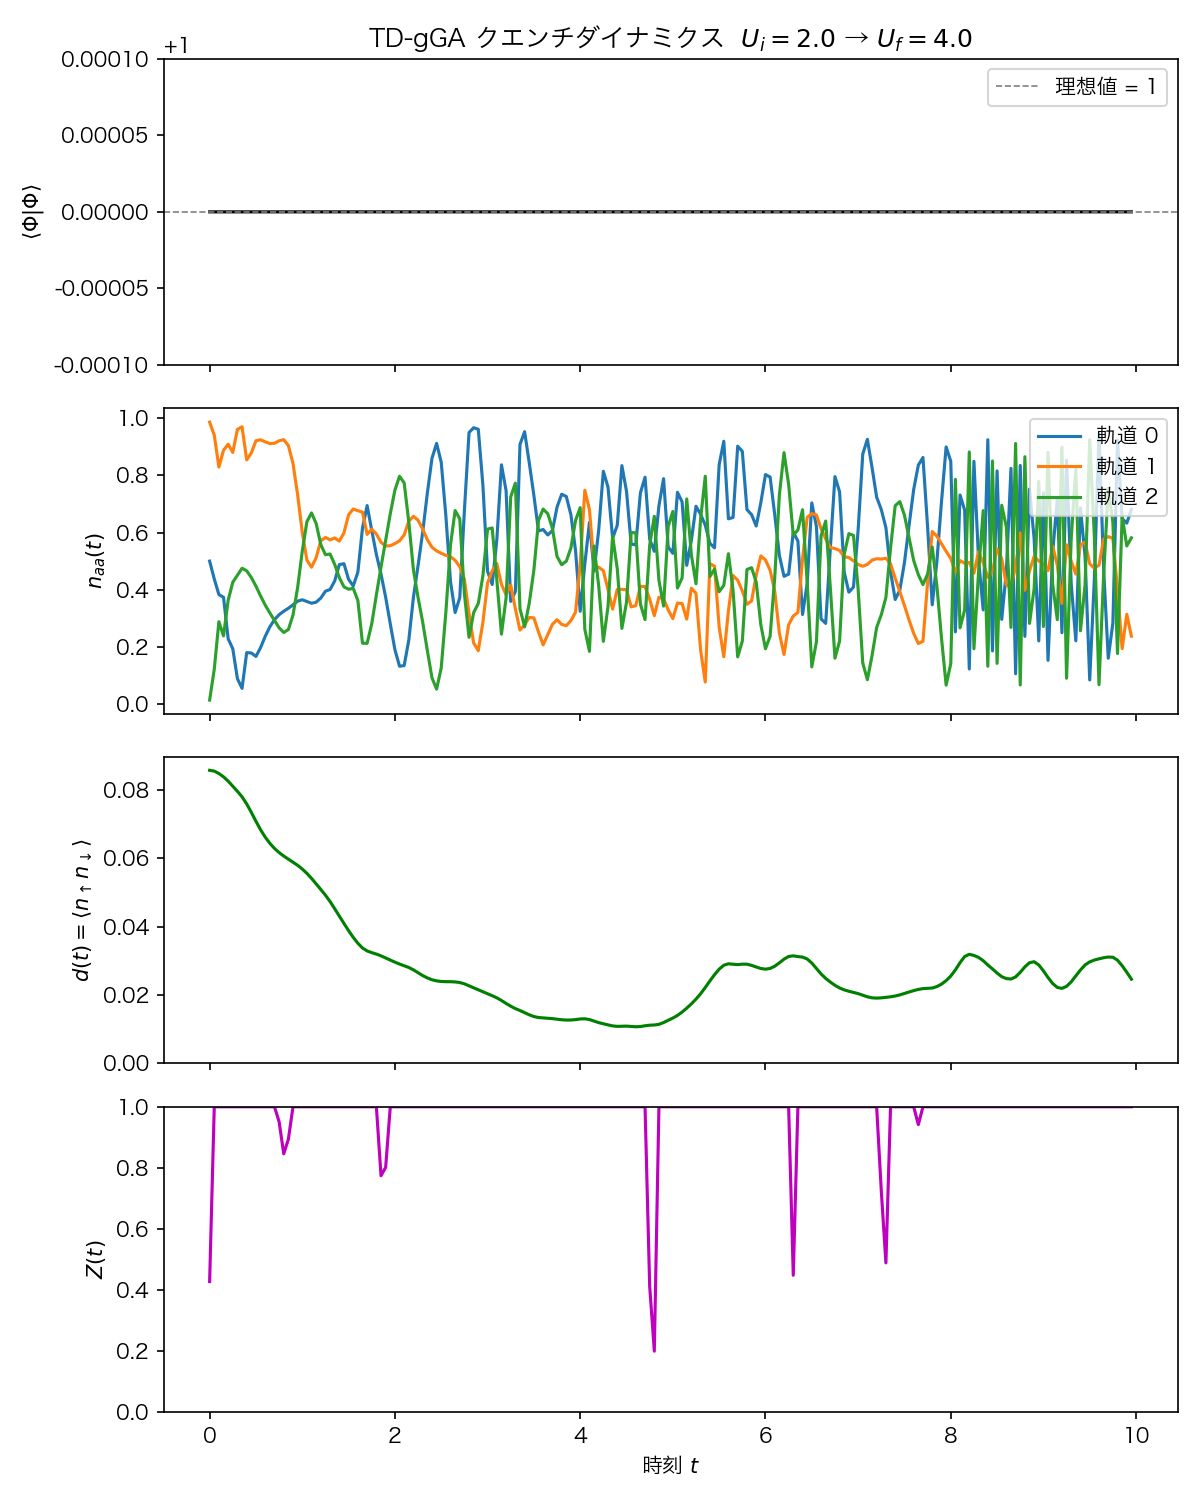
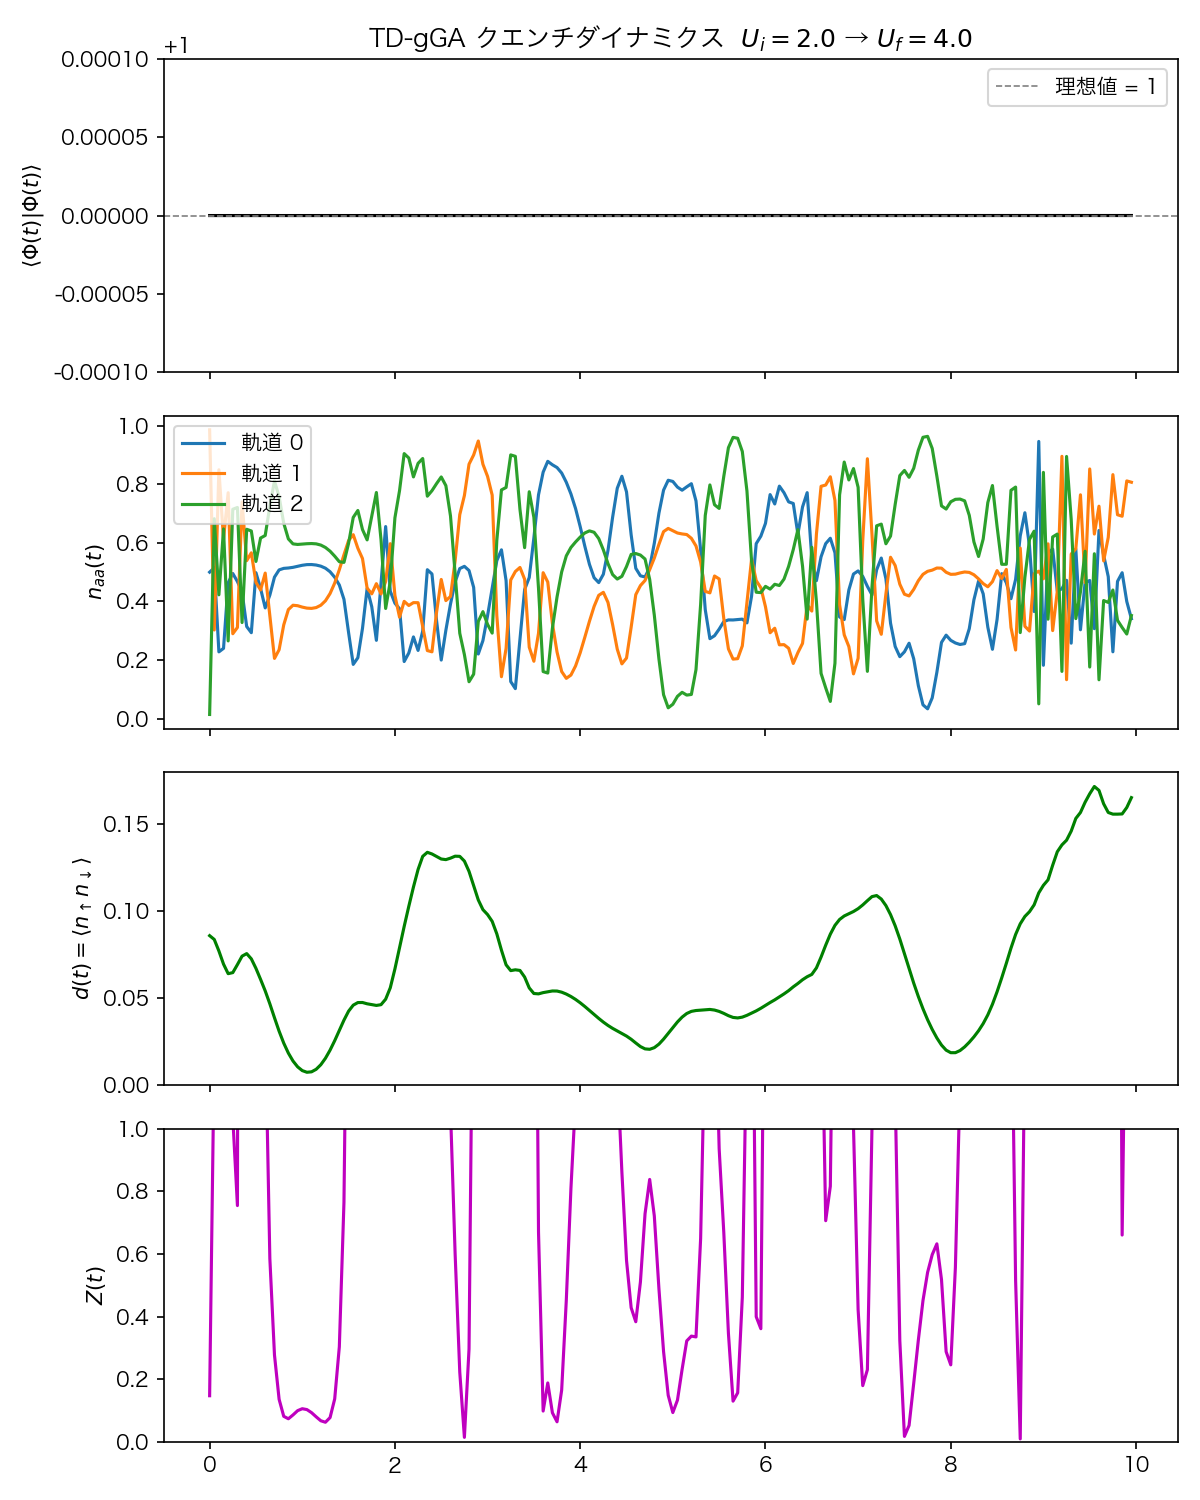
修正

diff --git a/run_simulation.py b/run_simulation.py
@@ -56,33 +56,26 @@ print(f"  ||Phi_0|| = {np.linalg.norm(Phi_0):.6f}  (≈ 1 が正常)")
 # ============================================================
 print("[3] フォック空間演算子を構築中...")
 
-FH_list = ed.build_creation_ops()  # 全軌道の生成演算子リスト (全Fock空間)
-
-# 半充填セクターのオフセット計算 (ed_solver の build_op_prods と同様)
+FH_list = ed.build_creation_ops()
 ioff = sum(int(comb(ed.n_tot_orb, i, exact=True)) for i in range(ed.n_half))
 iend = ioff + ed.hsize_half
 
-# 軌道インデックスの規約:
-#   物理軌道 alpha = 0 .. B-1  → FH_list[alpha]
-#   浴/ゴースト軌道 a = B .. 2B-1 → FH_list[B + a_loop]
-# （FH_list の先頭 B 個が物理、次の B 個が浴）
+op_cb = np.zeros((B, 1, dim_Phi, dim_Phi), dtype=complex)
+op_bb = np.zeros((B, B, dim_Phi, dim_Phi), dtype=complex)
+nphys = ed.n_phys_orb  # = 2 (spin-up=0, spin-dn=1)
+c_up_dag = FH_list[0]
 
-op_cb = np.zeros((B, B, dim_Phi, dim_Phi), dtype=complex)  # c†_al b_a
-op_bb = np.zeros((B, B, dim_Phi, dim_Phi), dtype=complex)  # b†_b  b_a
-
-for a_loop in range(B):      # 浴軌道ループインデックス (0 .. B-1)
-    # 浴軌道の消滅演算子: b_a = (b†_a)† = FH_list[B + a_loop].conj().T
-    b_ann_a = FH_list[B + a_loop].getH()   # 全Fock空間での消滅演算子 (sparse)
-
-    for al in range(B):      # 物理軌道インデックス alpha (0 .. B-1)
-        # op_cb[a_loop, al] = c†_al b_a
-        op_full = FH_list[al].dot(b_ann_a)
-        op_cb[a_loop, al] = op_full[ioff:iend, ioff:iend].toarray()
-
-    for b_loop in range(B):  # 浴軌道インデックス b (0 .. B-1)
-        # op_bb[a_loop, b_loop] = b†_b b_a
-        op_full = FH_list[B + b_loop].dot(b_ann_a)
-        op_bb[a_loop, b_loop] = op_full[ioff:iend, ioff:iend].toarray()
+# fix_gauge により bath 軌道は逆順に並んでいる:
+# Delta の a 番軌道 ↔ FH_list[nphys + 2*(B-1-a)]  (spin-up bath)
+#                    ↔ FH_list[nphys + 2*(B-1-a)+1] (spin-dn bath)
+for a in range(B):
+    bath_up_idx = nphys + 2 * (B - 1 - a)
+    b_ann_a = FH_list[bath_up_idx].getH()
+    op_cb[a, 0] = c_up_dag.dot(b_ann_a)[ioff:iend, ioff:iend].toarray()
+    for b in range(B):
+        bath_up_b = nphys + 2 * (B - 1 - b)
+        b_dag_b = FH_list[bath_up_b]
+        op_bb[a, b] = b_dag_b.dot(b_ann_a)[ioff:iend, ioff:iend].toarray()
 
 print("  op_cb, op_bb の構築完了。")
 
@@ -92,45 +85,30 @@ print("  op_cb, op_bb の構築完了。")
 U_final = 4.0
 print(f"[4] クエンチ後ハミルトニアン (U_f = {U_final}) の固定部分を構築中...")
 
-# 1体行列 h_1body (2B × 2B) を構築
-h_1body = np.zeros((2 * B, 2 * B), dtype=complex)
-
-# (1) 物理ブロック (0:B, 0:B): on-site エネルギー -U_final/2
-np.fill_diagonal(h_1body[:B, :B], -U_final / 2.0)
-
-# (2) 浴ブロック (B:2B, B:2B):
-# ※注意: Λ^c はここに入れない（ソルバー内で動的に足すため 0 のまま）
-
-# (3) D ブロック (物理-浴の混成): Frozen-D 近似のため初期値のまま固定
-h_1body[:B, B:] = D_guess_0
-h_1body[B:, :B] = D_guess_0.conj().T
-
-# 一体行列を Fock 空間表現に変換
-# H_fock = Σ_{ij} h_1body[i,j] * c†_j c_i  (半充填セクター)
 import scipy.sparse as sp
 H_loc_fock = sp.csr_matrix((dim_Phi, dim_Phi), dtype=complex)
-for i in range(2 * B):
-    ann_i = FH_list[i].getH()
-    for j in range(2 * B):
-        if abs(h_1body[i, j]) < 1e-14:
-            continue
-        op_ij = FH_list[j].dot(ann_i)
-        H_loc_fock += h_1body[i, j] * op_ij[ioff:iend, ioff:iend]
 
-# (4) 2体相互作用 (Hubbard U) の追加
-# U2loc は build_Hemb 時に U_initial スケールで保存済み → U_final にスケール変換
-# ファイル名: "U2loc-imp{nr}{type}.npz" (ed_solver.py の save_npz 命名規則に従う)
-U2loc_sparse = sp.load_npz(f"U2loc-imp{ed.impurity_nr}{ed.impurity_type}.npz")
-H_loc_fock += (U_final / U_initial) * U2loc_sparse   # 既に hsize_half × hsize_half
+n_up_phys = FH_list[0].dot(FH_list[0].getH())
+n_dn_phys = FH_list[1].dot(FH_list[1].getH())
+op_n_phys = (n_up_phys + n_dn_phys)[ioff:iend, ioff:iend]
+H_loc_fock += (-U_final / 2.0) * op_n_phys
 
-H_emb_0_fock = H_loc_fock.toarray()   # (dim_Phi, dim_Phi) dense 行列
-H_phys_1body = h_1body[:B, :B].copy() # (B, B) 物理ブロック（h_qp の 0 次項用）
+D_vec = ga_obj.D
+for a in range(B):
+    bath_up_idx = nphys + 2 * (B - 1 - a)
+    bath_dn_idx = nphys + 2 * (B - 1 - a) + 1
+    term_up = FH_list[0].dot(FH_list[bath_up_idx].getH()) + FH_list[bath_up_idx].dot(FH_list[0].getH())
+    term_dn = FH_list[1].dot(FH_list[bath_dn_idx].getH()) + FH_list[bath_dn_idx].dot(FH_list[1].getH())
+    H_loc_fock += D_vec[a, 0] * term_up[ioff:iend, ioff:iend]
+    H_loc_fock += D_vec[a, 0] * term_dn[ioff:iend, ioff:iend]
 
-# 二重占有数演算子 d = ⟨Φ|n_↑ n_↓|Φ⟩
-# 物理軌道: FH_list[0]=c†_↑, FH_list[1]=c†_↓  (nphysorb=2, spin-up=0, spin-down=1)
-n_up_full   = FH_list[0].dot(FH_list[0].getH())   # c†_↑ c_↑
-n_down_full = FH_list[1].dot(FH_list[1].getH())   # c†_↓ c_↓
-op_docc = n_up_full.dot(n_down_full)[ioff:iend, ioff:iend].toarray()
+n_up_full = FH_list[0].dot(FH_list[0].getH())
+n_dn_full = FH_list[1].dot(FH_list[1].getH())
+op_docc = n_up_full.dot(n_dn_full)[ioff:iend, ioff:iend].toarray()
+H_loc_fock += U_final * sp.csr_matrix(op_docc)
+
+H_emb_0_fock = H_loc_fock.toarray()
+H_phys_1body = np.array([[-U_final / 2.0]], dtype=complex)
 
 print(f"  H_emb_0_fock の形状: {H_emb_0_fock.shape}")
 
@@ -178,13 +156,16 @@ for k in range(nsteps):
     occupations[:, k] = np.real(np.diag(n_ab_t))
     docc[k]           = np.real(Phi_t.conj() @ op_docc @ Phi_t)
 
-    # R 行列の計算（td_gga_solver.py の compute_derivatives と同じロジック）
+    # R 行列の計算（固有値クリッピングで数値安定化）
+    # op_cb は (B, 1, ...) — スピン上向き1本のみ → fdaggerc は (B, 1)
     Delta    = (n_ab_t + n_ab_t.conj().T) / 2.0
-    fdaggerc = np.array([[Phi_t.conj() @ op_cb[a, al] @ Phi_t
-                          for al in range(B)] for a in range(B)])
-    sqrt_D1mD = LA.sqrtm(Delta @ (I - Delta))
-    R = LA.pinv(sqrt_D1mD, rcond=1e-6) @ fdaggerc
-    Z_t[k] = min(np.real((R @ R.conj().T)[0, 0]), 1.0)  # 物理範囲 [0,1] にクリップ
+    fdaggerc = np.array([[Phi_t.conj() @ op_cb[a, 0] @ Phi_t] for a in range(B)])
+    eigs_D, U_D = LA.eigh(Delta)
+    eigs_D = np.clip(np.real(eigs_D), 1e-10, 1.0 - 1e-10)
+    inv_sqrt_eigs = 1.0 / np.sqrt(eigs_D * (1.0 - eigs_D))
+    R = (U_D * inv_sqrt_eigs[np.newaxis, :]) @ U_D.conj().T @ fdaggerc
+    # R は (B, 1) → Z = (R R†)[0,0]
+    Z_t[k] = np.real((R @ R.conj().T)[0, 0])
 
 # 数値を npz に保存（replot.py で即座に再プロット可能）
 np.savez('td_gga_result.npz',
@@ -222,3 +203,18 @@ plt.tight_layout()
 plt.savefig('quench_dynamics.png', dpi=150)
 plt.show()
 print("  プロットを quench_dynamics.png に保存しました。")
+
+# ============================================================
+# 7. 平衡状態（初期状態）の結果サマリー
+# ============================================================
+print("\n" + "="*50)
+print(f"  平衡状態サマリー (U_i = {U_initial})")
+print("="*50)
+print(f"  Z        = {ga_obj.Z:.6f}")
+print(f"  d (docc) = {docc[0]:.6f}")
+print(f"  n_ab (対角) = {[f'{np.real(n_ab_0[i,i]):.4f}' for i in range(B)]}")
+print(f"  ||Phi_0|| = {np.linalg.norm(Phi_0):.10f}")
+print(f"  dim_Phi   = {dim_Phi},  B = {B}")
+print("="*50)
+print(f"  t=0 の d(t) = {docc[0]:.6f}  (平衡値と一致するか確認)")
+print(f"  t=0 の Z(t) = {Z_t[0]:.6f}  (平衡値 Z={ga_obj.Z:.6f} と比較)")

diff --git a/td_gga_solver.py b/td_gga_solver.py
@@ -103,7 +103,6 @@ class TDgGADynamics:
         dY/dt を反復ソルバーなしで直接計算して返す。
         """
         B = self.B
-        I = np.eye(B)
 
         # 1. 1次元実数配列 Y_flat → 複素 Phi, n_ab
         Phi, n_ab = unpack_state(Y_flat, self.dim_Phi, B)
@@ -111,13 +110,18 @@ class TDgGADynamics:
         # a. 数値安定化: 局所密度行列 Δ を明示的にエルミート化
         Delta = (n_ab + n_ab.conj().T) / 2.0
 
-        # b. R の直接計算
+        # b. R の直接計算（固有値クリッピングで数値安定化）
         #    <Φ|c†_α b_a|Φ> = [Δ(1-Δ)]^{1/2} R
-        #    → R = pinv([Δ(1-Δ)]^{1/2}) @ fdaggerc
-        fdaggerc = np.array([[Phi.conj() @ self.op_cb[a, al] @ Phi
-                              for al in range(B)] for a in range(B)])
-        sqrt_D1mD = LA.sqrtm(Delta @ (I - Delta))
-        R = LA.pinv(sqrt_D1mD) @ fdaggerc
+        #    → R = [Δ(1-Δ)]^{-1/2} @ fdaggerc
+        #    固有値を [ε, 1-ε] にクリップして sqrtm の複素化を防ぐ
+        # op_cb は (B, 1, ...) — 物理軌道はスピン上向き1本のみ
+        fdaggerc = np.array([[Phi.conj() @ self.op_cb[a, 0] @ Phi] for a in range(B)])
+        # shape: (B, 1)
+        eigs_D, U_D = LA.eigh(Delta)
+        eigs_D = np.clip(np.real(eigs_D), 1e-10, 1.0 - 1e-10)
+        inv_sqrt_eigs = 1.0 / np.sqrt(eigs_D * (1.0 - eigs_D))
+        R = (U_D * inv_sqrt_eigs[np.newaxis, :]) @ U_D.conj().T @ fdaggerc
+        # shape: (B, 1)
 
         # c. H_emb^0 は run_simulation 側で事前構築済み（D・Hubbard U を含む）
         #    self.H_emb_0 をそのまま使用。D を毎ステップ足す処理は不要。
@@ -134,7 +138,8 @@ class TDgGADynamics:
         #   すなわち K[a,b] = ⟨Φ|[op_bb[a,b], H_emb^0]|Φ⟩ − (n @ h_qp^T − h_qp^T @ n)[a,b]
 
         # Step 1: Λ^c = 0 で h_qp を仮計算
-        h_qp_0 = R.conj().T @ self.H_phys @ R   # Λ^c = 0
+        # R は (B,1)、H_phys は (1,1) → h_qp_0 = R H_phys R† で (B,B) を得る
+        h_qp_0 = R @ self.H_phys @ R.conj().T   # Λ^c = 0, shape: (B,B)
 
         # K 行列の計算
         # self.H_emb_0 は (dim_Phi, dim_Phi) のフォック空間行列

diff --git a/ga_mainfin.py b/ga_mainfin.py
@@ -916,7 +916,7 @@ if __name__ == "__main__":
 
     ######### Hamiltonan settings #########
     nphysorb    = 2                 
-    nghost      = 4                 
+    nghost      = 8                 
     shift_list  = (-1.0,)            
     V           = 1.0               
     alpha       = 0.0               
